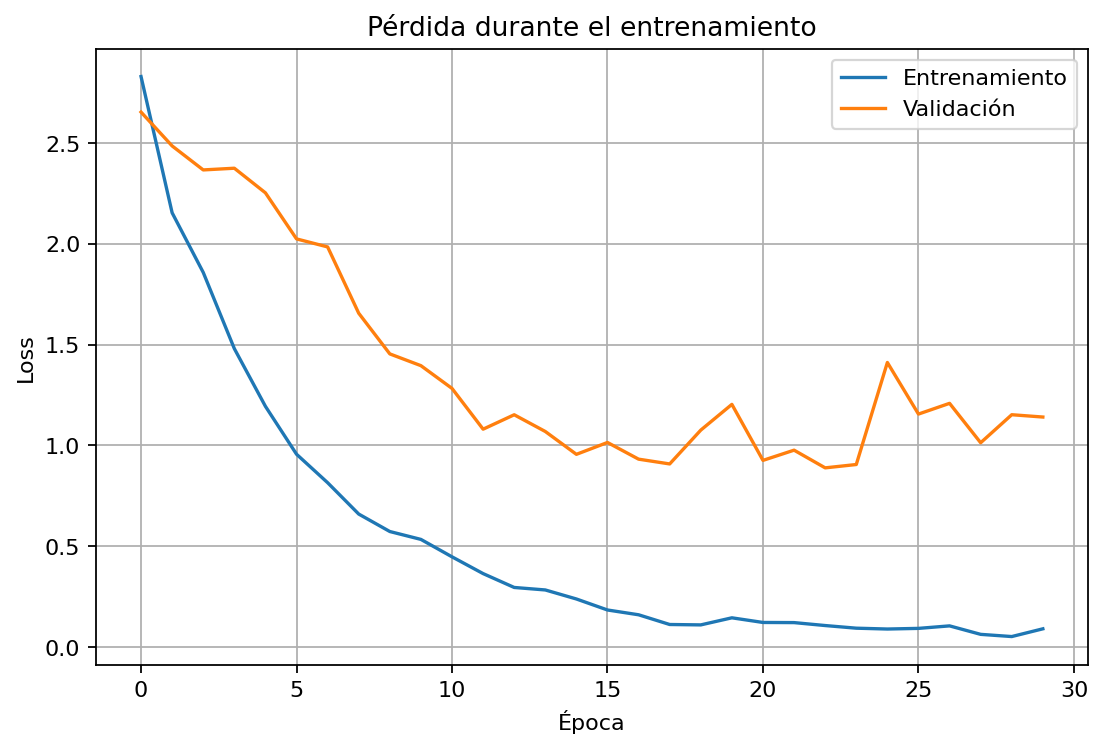
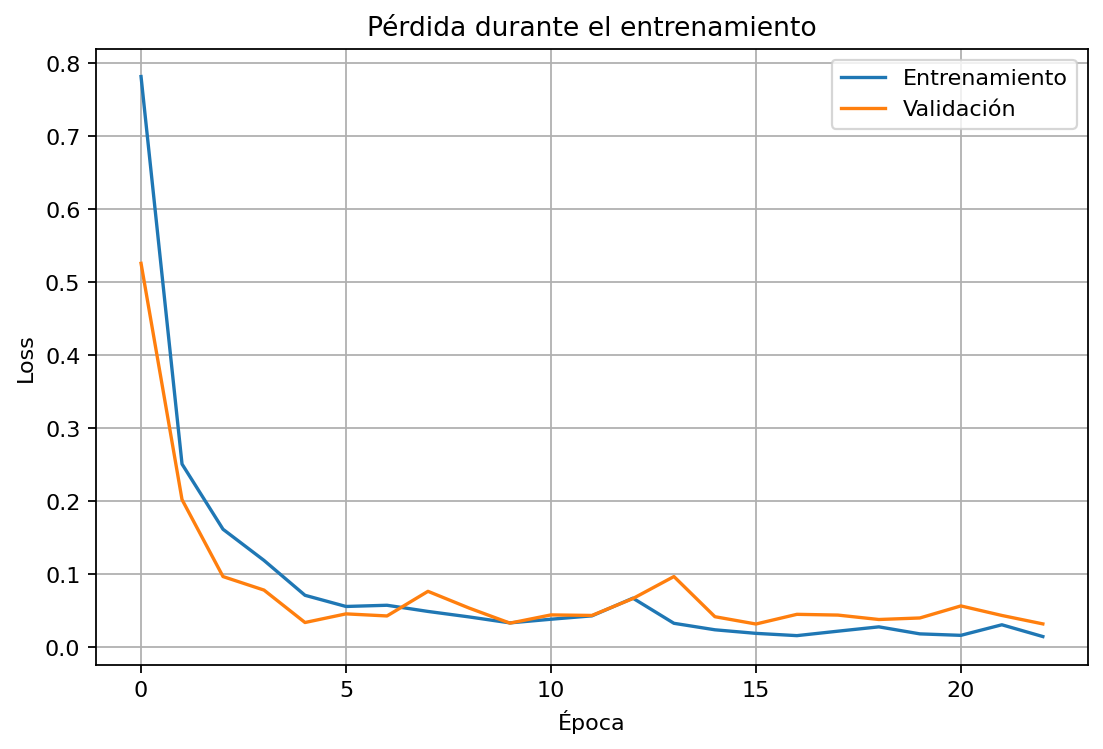
Agrega audios aumentados

diff --git a/augment_dataset.py b/augment_dataset.py
@@ -1,0 +1,215 @@
+from pathlib import Path
+import random
+import shutil
+
+import numpy as np
+import soundfile as sf
+
+from config import DATASET_DIR, SAMPLE_RATE, COMMANDS
+
+
+# =========================================================
+# CONFIGURACIÓN
+# =========================================================
+
+AUGMENTED_DIR = Path("dataset_domotica_voz_augmented")
+
+RANDOM_SEED = 42
+random.seed(RANDOM_SEED)
+np.random.seed(RANDOM_SEED)
+
+
+# =========================================================
+# TÉCNICA 1: TIME SHIFTING
+# =========================================================
+
+def time_shift(audio, max_shift_fraction=0.15):
+    """
+    Desplaza el audio hacia adelante o atrás.
+    Simula que la persona empezó a hablar un poco antes o después.
+    """
+    max_shift = int(len(audio) * max_shift_fraction)
+
+    if max_shift <= 0:
+        return audio
+
+    shift = random.randint(-max_shift, max_shift)
+
+    return np.roll(audio, shift)
+
+
+# =========================================================
+# TÉCNICA 2: RUIDO GAUSSIANO
+# =========================================================
+
+def add_gaussian_noise(audio, noise_factor=0.008):
+    """
+    Agrega ruido gaussiano leve.
+    Ayuda a que el modelo sea más robusto ante ruido ambiental.
+    """
+    noise = np.random.normal(0, noise_factor, audio.shape)
+    audio_noisy = audio + noise
+
+    return np.clip(audio_noisy, -1.0, 1.0)
+
+
+# =========================================================
+# TÉCNICA 3: TIME STRETCHING SIMPLE
+# =========================================================
+
+def time_stretch_simple(audio, rate=1.1):
+    """
+    Cambia levemente la velocidad del audio usando interpolación.
+    rate > 1.0: audio más rápido
+    rate < 1.0: audio más lento
+
+    Nota: esta versión simple no preserva perfectamente el pitch,
+    pero es suficiente para aumentar variabilidad en un proyecto académico.
+    """
+    if rate <= 0:
+        return audio
+
+    original_indices = np.arange(len(audio))
+    new_length = int(len(audio) / rate)
+
+    if new_length <= 1:
+        return audio
+
+    new_indices = np.linspace(0, len(audio) - 1, new_length)
+    stretched = np.interp(new_indices, original_indices, audio)
+
+    # Ajustar a la longitud original
+    if len(stretched) < len(audio):
+        padding = len(audio) - len(stretched)
+        stretched = np.pad(stretched, (0, padding), mode="constant")
+    else:
+        stretched = stretched[:len(audio)]
+
+    return stretched.astype(np.float32)
+
+
+# =========================================================
+# OPCIONAL: CAMBIO LEVE DE VOLUMEN
+# =========================================================
+
+def change_volume(audio, factor=1.1):
+    """
+    Cambia ligeramente el volumen.
+    No cuenta como una de las técnicas principales del enunciado,
+    pero ayuda a simular diferentes distancias al micrófono.
+    """
+    audio_vol = audio * factor
+    return np.clip(audio_vol, -1.0, 1.0)
+
+
+# =========================================================
+# UTILIDADES
+# =========================================================
+
+def normalize_audio(audio):
+    max_val = np.max(np.abs(audio)) if len(audio) > 0 else 0
+
+    if max_val > 0:
+        audio = audio / max_val * 0.9
+
+    return audio.astype(np.float32)
+
+
+def preparar_carpeta_salida():
+    if AUGMENTED_DIR.exists():
+        print(f"Eliminando carpeta anterior: {AUGMENTED_DIR}")
+        shutil.rmtree(AUGMENTED_DIR)
+
+    AUGMENTED_DIR.mkdir(parents=True, exist_ok=True)
+
+    for clase in COMMANDS.keys():
+        (AUGMENTED_DIR / clase).mkdir(parents=True, exist_ok=True)
+
+
+def guardar_audio(path, audio, sample_rate):
+    audio = normalize_audio(audio)
+    sf.write(str(path), audio, sample_rate)
+
+
+# =========================================================
+# PROCESO PRINCIPAL
+# =========================================================
+
+def augmentar_dataset():
+    preparar_carpeta_salida()
+
+    total_originales = 0
+    total_generados = 0
+
+    print("\n=== DATA AUGMENTATION DEL DATASET ===\n")
+
+    for clase in COMMANDS.keys():
+        carpeta_origen = DATASET_DIR / clase
+        carpeta_destino = AUGMENTED_DIR / clase
+
+        if not carpeta_origen.exists():
+            print(f"No existe carpeta: {carpeta_origen}")
+            continue
+
+        archivos = sorted(carpeta_origen.glob("*.wav"))
+
+        print(f"\nClase: {clase}")
+        print(f"Audios originales encontrados: {len(archivos)}")
+
+        for archivo in archivos:
+            audio, sr = sf.read(str(archivo), dtype="float32")
+
+            if sr != SAMPLE_RATE:
+                print(f"Advertencia: {archivo.name} tiene sample rate {sr}, esperado {SAMPLE_RATE}")
+
+            # Si el audio viene en estéreo, convertir a mono
+            if len(audio.shape) > 1:
+                audio = np.mean(audio, axis=1)
+
+            audio = normalize_audio(audio)
+
+            # 1. Guardar copia original
+            salida_original = carpeta_destino / archivo.name
+            guardar_audio(salida_original, audio, sr)
+            total_originales += 1
+
+            base_name = archivo.stem
+
+            # 2. Time shifting
+            audio_shift = time_shift(audio)
+            salida_shift = carpeta_destino / f"{base_name}_aug_shift.wav"
+            guardar_audio(salida_shift, audio_shift, sr)
+            total_generados += 1
+
+            # 3. Ruido gaussiano
+            audio_noise = add_gaussian_noise(audio)
+            salida_noise = carpeta_destino / f"{base_name}_aug_noise.wav"
+            guardar_audio(salida_noise, audio_noise, sr)
+            total_generados += 1
+
+            # 4. Time stretching, versión rápida o lenta aleatoria
+            rate = random.choice([0.90, 1.10])
+            audio_stretch = time_stretch_simple(audio, rate=rate)
+            salida_stretch = carpeta_destino / f"{base_name}_aug_stretch.wav"
+            guardar_audio(salida_stretch, audio_stretch, sr)
+            total_generados += 1
+
+            # 5. Extra opcional: volumen
+            factor = random.choice([0.80, 1.20])
+            audio_volume = change_volume(audio, factor=factor)
+            salida_volume = carpeta_destino / f"{base_name}_aug_volume.wav"
+            guardar_audio(salida_volume, audio_volume, sr)
+            total_generados += 1
+
+        total_clase = len(list(carpeta_destino.glob("*.wav")))
+        print(f"Total en dataset aumentado para {clase}: {total_clase}")
+
+    print("\n=== RESUMEN ===")
+    print(f"Audios originales copiados: {total_originales}")
+    print(f"Audios aumentados generados: {total_generados}")
+    print(f"Total final aproximado: {total_originales + total_generados}")
+    print(f"Dataset aumentado guardado en: {AUGMENTED_DIR}")
+
+
+if __name__ == "__main__":
+    augmentar_dataset()

diff --git a/config.py b/config.py
@@ -4,7 +4,7 @@ from pathlib import Path
 # RUTAS PRINCIPALES DEL PROYECTO
 # =========================================================
 
-DATASET_DIR = Path("dataset_domotica_voz")
+DATASET_DIR = Path("dataset_domotica_voz_augmented")
 MODELS_DIR = Path("models")
 
 